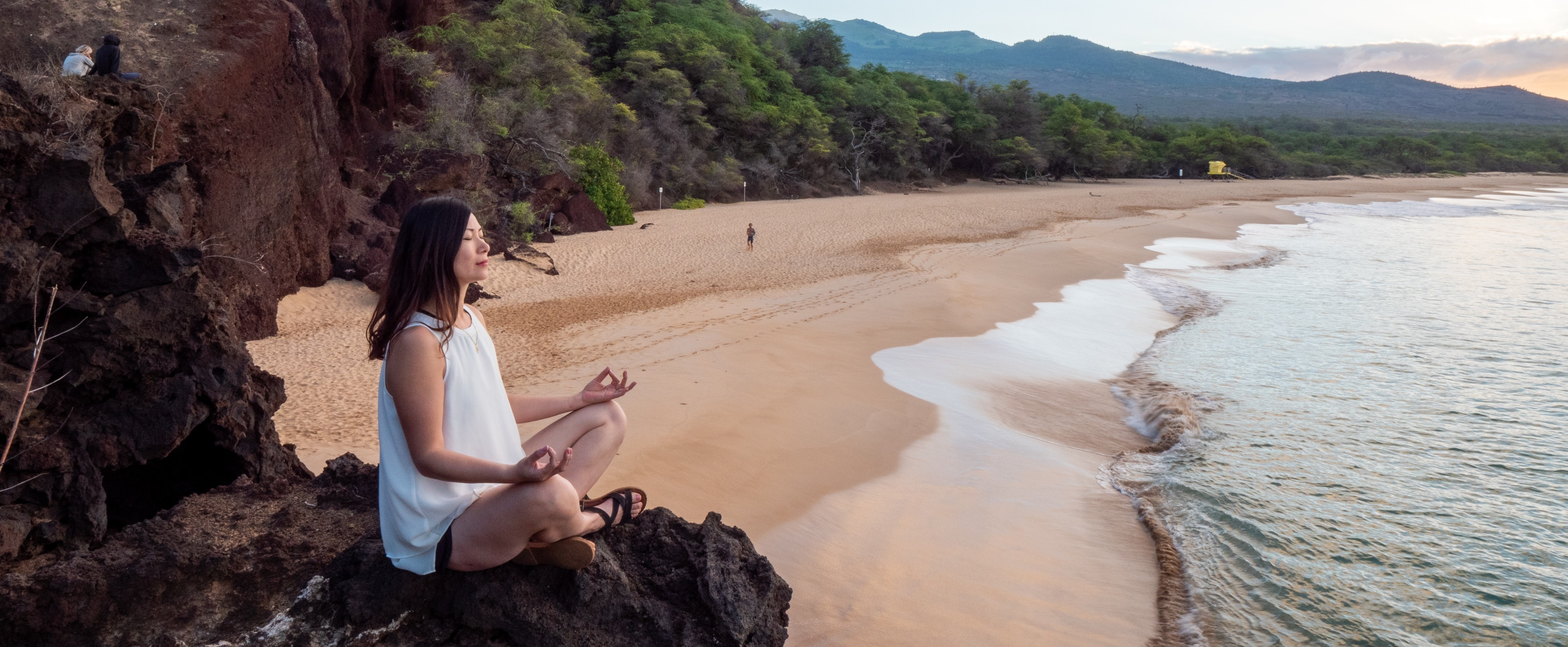
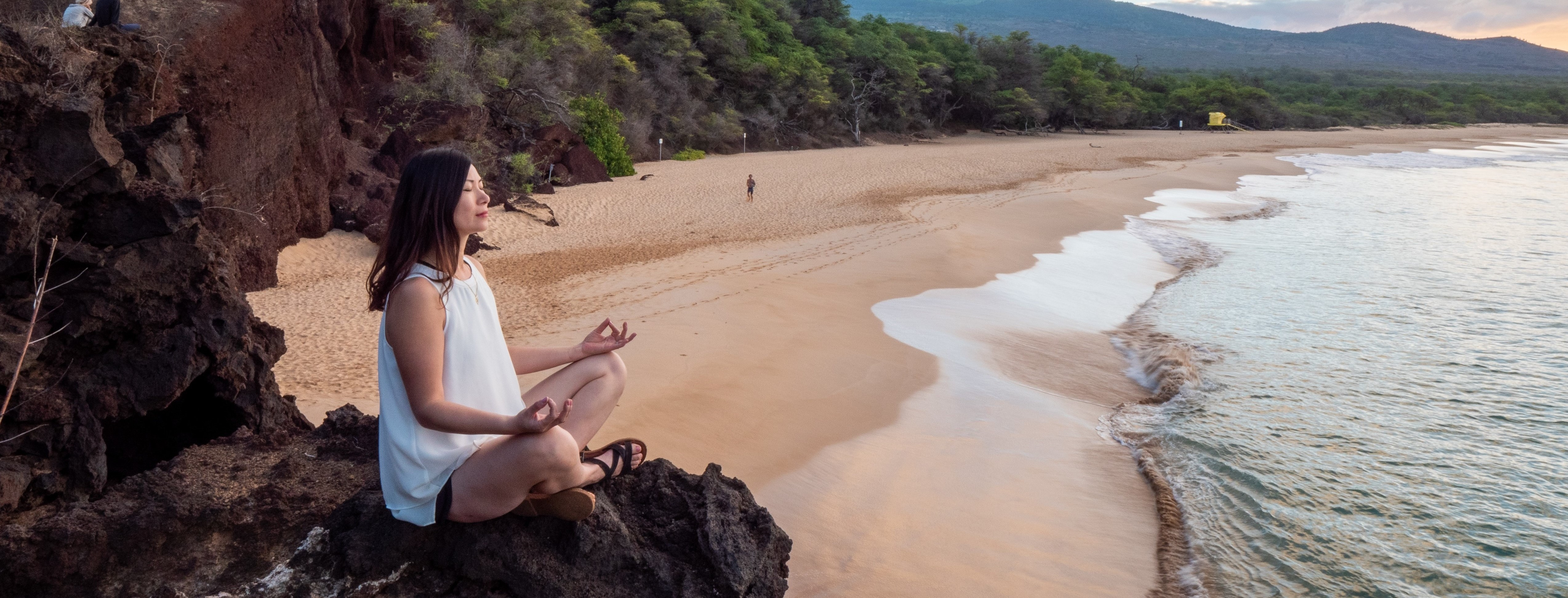
update gallery

diff --git a/html/gallery.html b/html/gallery.html
@@ -175,7 +175,7 @@
     <!--Start carousel-item1-->
     <div class="carousel-item active">
       <div class="view">
-        <img class="d-block w-100 img-fluid" src="../images/sc1.jpg" alt="First slide" >
+        <img class="d-block w-100 img-fluid" src="../images/yy.jpg" alt="First slide" >
         <div class="mask rgba-black-light"></div>
       </div>
       <div class="carousel-caption">
